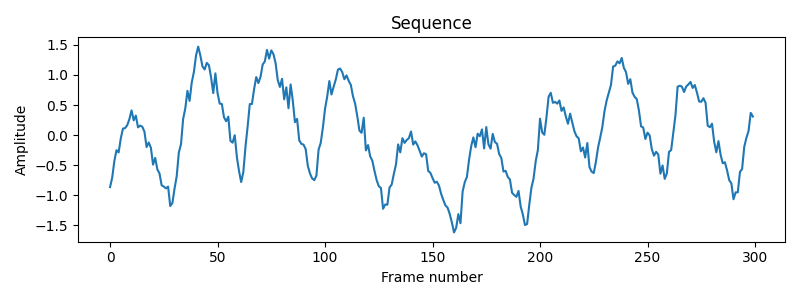
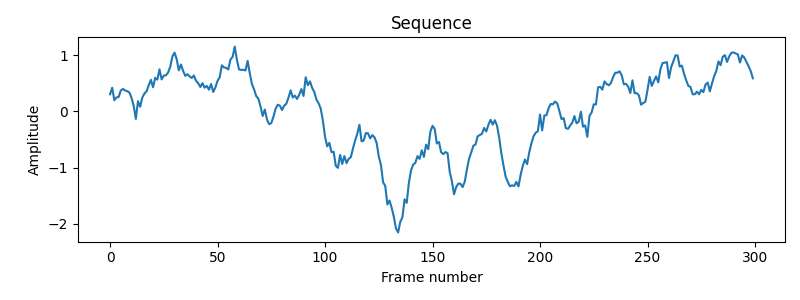
new pure split experiment

diff --git a/estimator_eval.py b/estimator_eval.py
@@ -2,7 +2,8 @@ import torch
 from Models.estimator_model import Estimator
 # from Models.extractor_latent3 import Extractor
 # from Models.extractor_latent import Extractor
-from Models.extractor_model_my import Extractor
+# from Models.extractor_model_my import Extractor
+from Models.extractor_model import Extractor
 from Datasets_handlers.Extractor.dataset_loader import DatasetLoader
 from Datasets_handlers.Estimator.dataset_loader import EstimatorDatasetLoader
 import numpy as np
@@ -87,8 +88,8 @@ class EstimatorEval:
                 extractor_output = self.infer_extractor(sequence)
                 # print("extractor_output shape:",extractor_output.shape)
                 # print("extractor_output:",extractor_output)
-                # prediction = self.infer(extractor_output) * 60
-                prediction = get_max_freq_padded(extractor_output, 30, hr_data, 0, pad_factor=10) * 60
+                prediction = self.infer(extractor_output) * 60
+                # prediction = get_max_freq_padded(extractor_output, 30, hr_data, 0, pad_factor=10) * 60
                 epoch_done = not data_loader.next_sequence()
                 ground_truth.append(hr_data)
                 predicted.append(prediction)
@@ -204,7 +205,7 @@ def plot_sequence(sequence,freqs,fft, real_hr,predicted, save_path):
 if __name__ == "__main__":
     import yaml
     import csv
-    config_data = yaml.safe_load(open("config_files/pure_local/config_eval_exp22.yaml"))
+    config_data = yaml.safe_load(open("config_files/pure_local/config_eval_exp24.yaml"))
     data = config_data["data"]
     weights = config_data["weights"]
     extractor_weights_path = weights["extractor_weights"]

diff --git a/train_extractor.py b/train_extractor.py
@@ -8,9 +8,9 @@ from Datasets_handlers.Extractor.dataset_loader import DatasetLoader
 from extractor_trainer import ExtractorTrainer
 
 # CONFIG_PATH = os.path.join("config_files", "synthetic", "config_extractor_synthetic.yaml")
-# CONFIG_PATH = os.path.join("config_files", "pure", "config_extractor_pure_halmos_exp24.yaml")
+CONFIG_PATH = os.path.join("config_files", "pure", "config_extractor_pure_halmos_exp25.yaml")
 # CONFIG_PATH = os.path.join("config_files", "pure_local", "config_extractor_exp22_better.yaml")
-CONFIG_PATH = os.path.join("config_files", "latent_model_test", "config_extractor_pure_halmos_latent4_exp1.yaml")
+# CONFIG_PATH = os.path.join("config_files", "latent_model_test", "config_extractor_pure_halmos_latent4_exp1.yaml")
 
 
 if __name__ == "__main__":

diff --git a/extractor_trainer.py b/extractor_trainer.py
@@ -1,7 +1,7 @@
 import torch
+from Models.extractor_model import Extractor
 # from Models.extractor_model_my import Extractor
-# from Models.extractor_latent import Extractor
-from Models.extractor_latent4 import Extractor
+# from Models.extractor_latent4 import Extractor
 from Loss.extractor_loss import ExtractorLoss
 from Datasets_handlers.Extractor.dataset_loader import DatasetLoader
 import matplotlib.pyplot as plt
